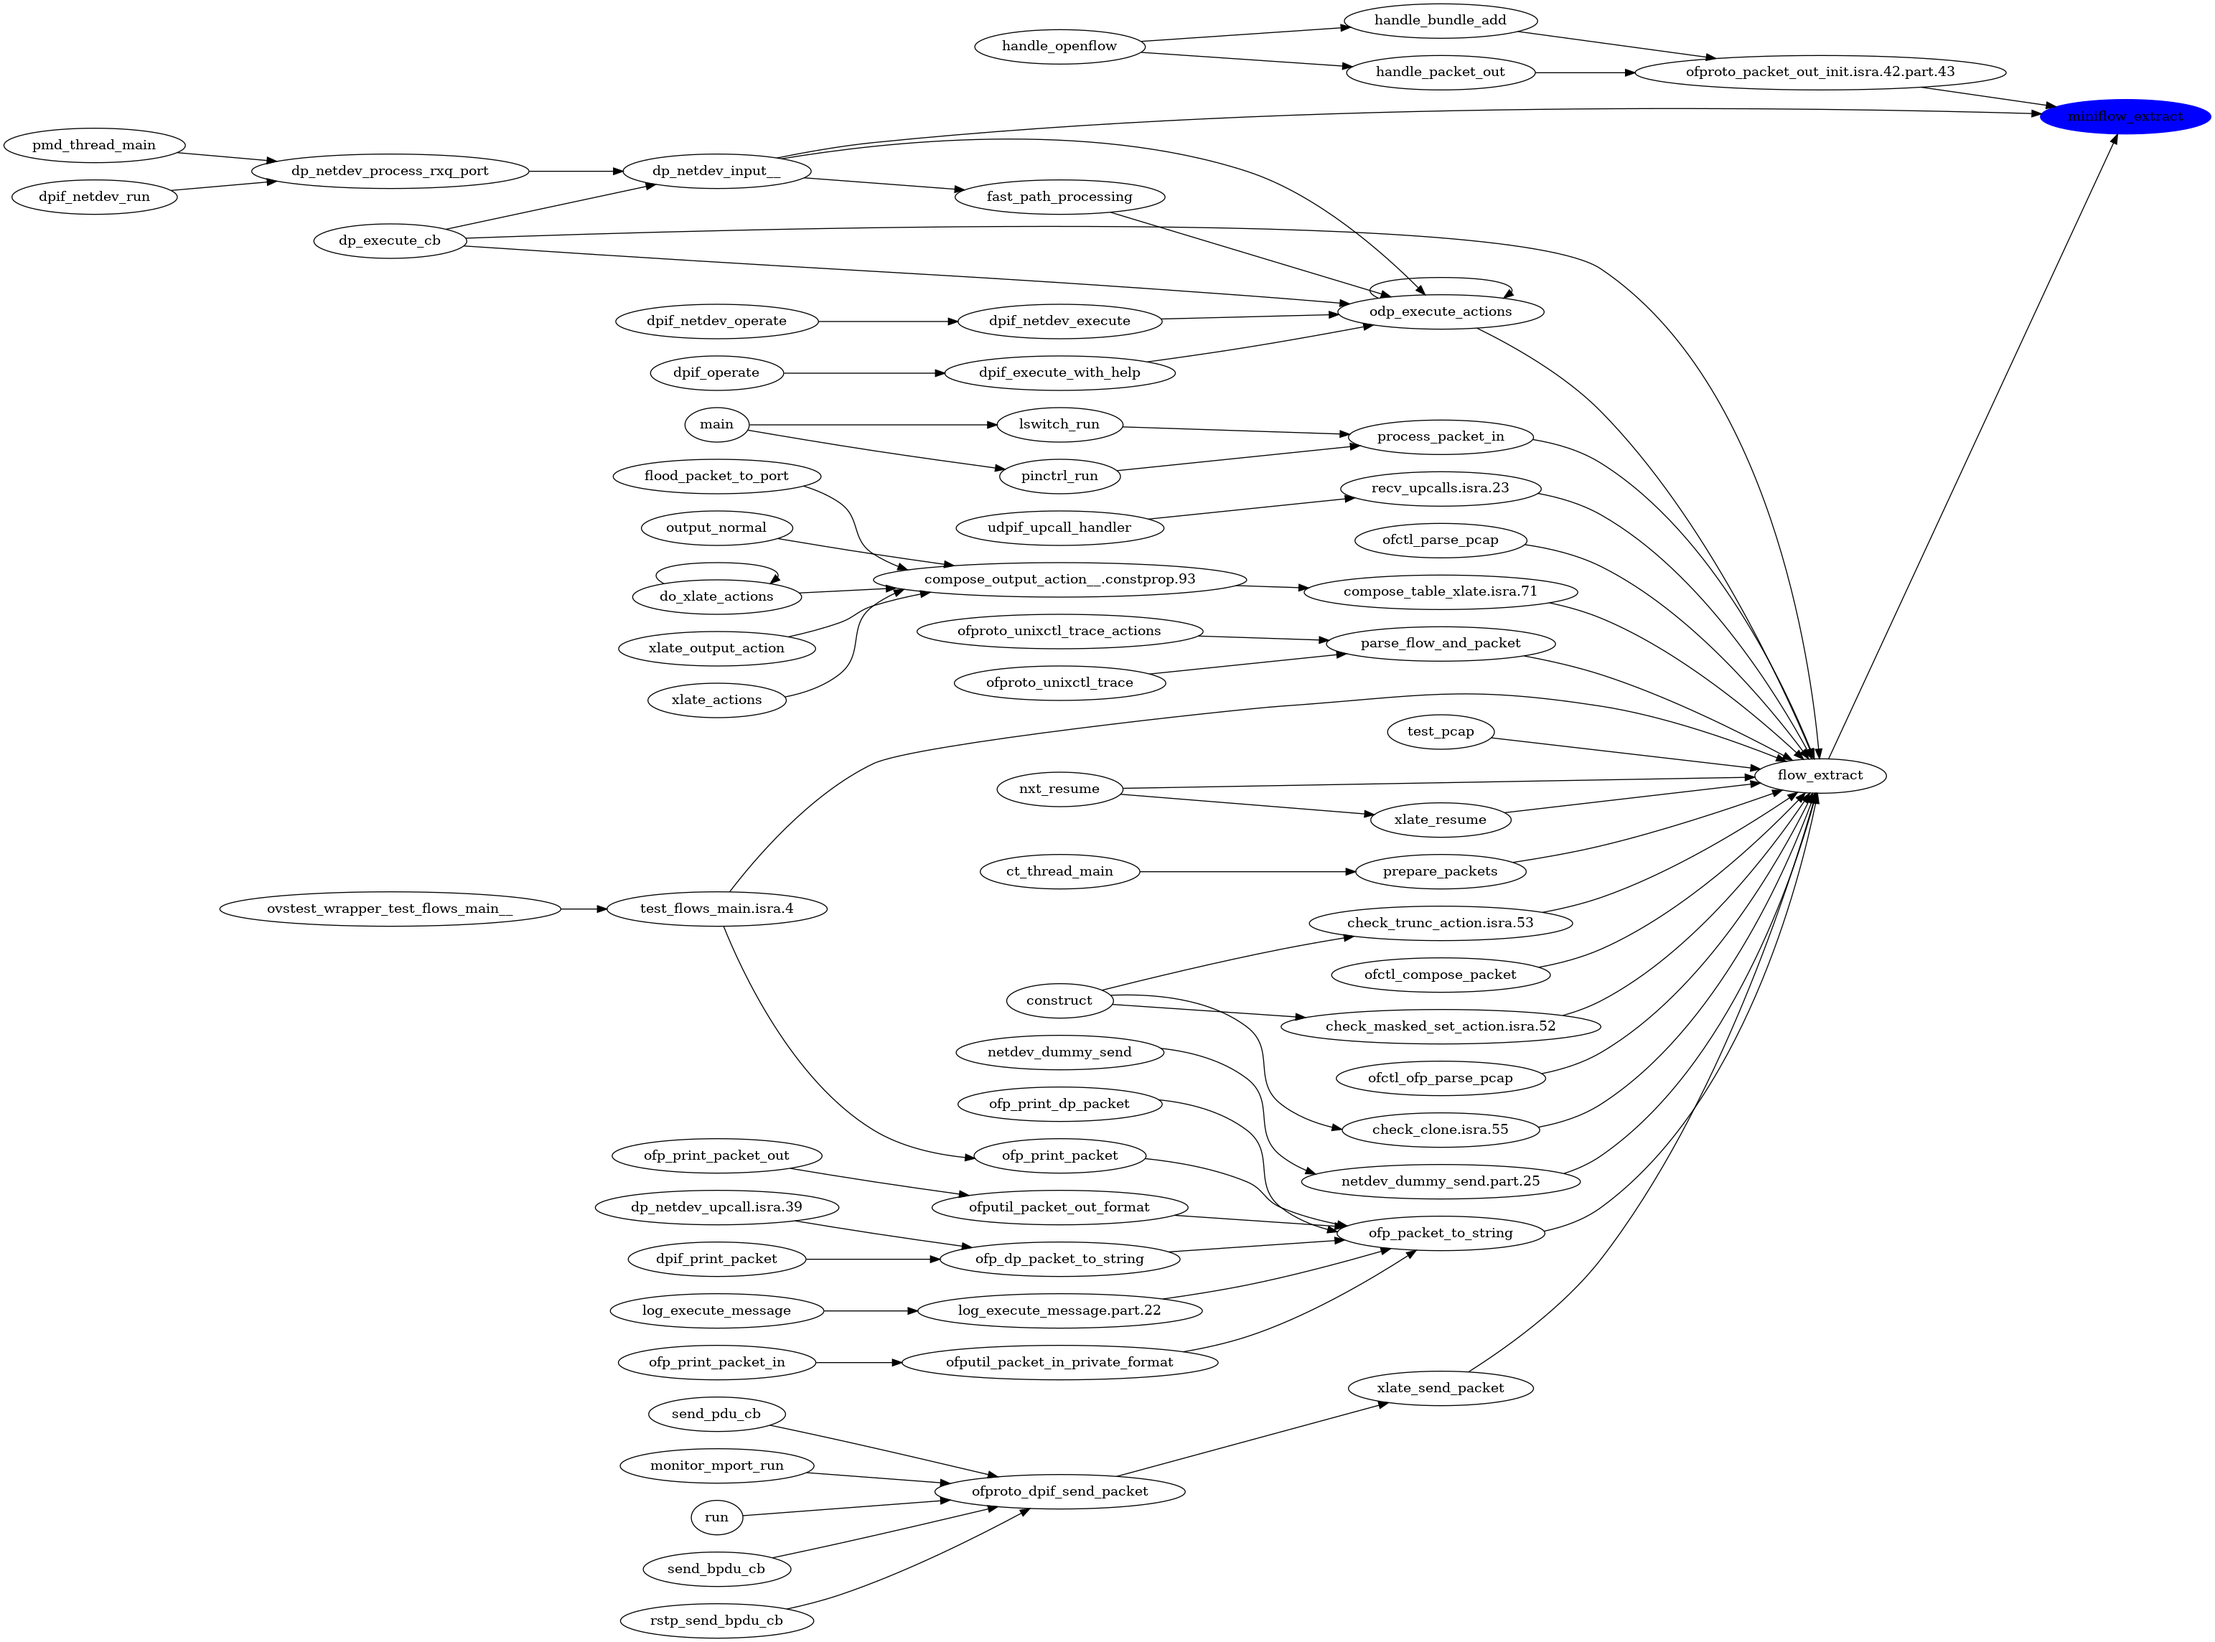
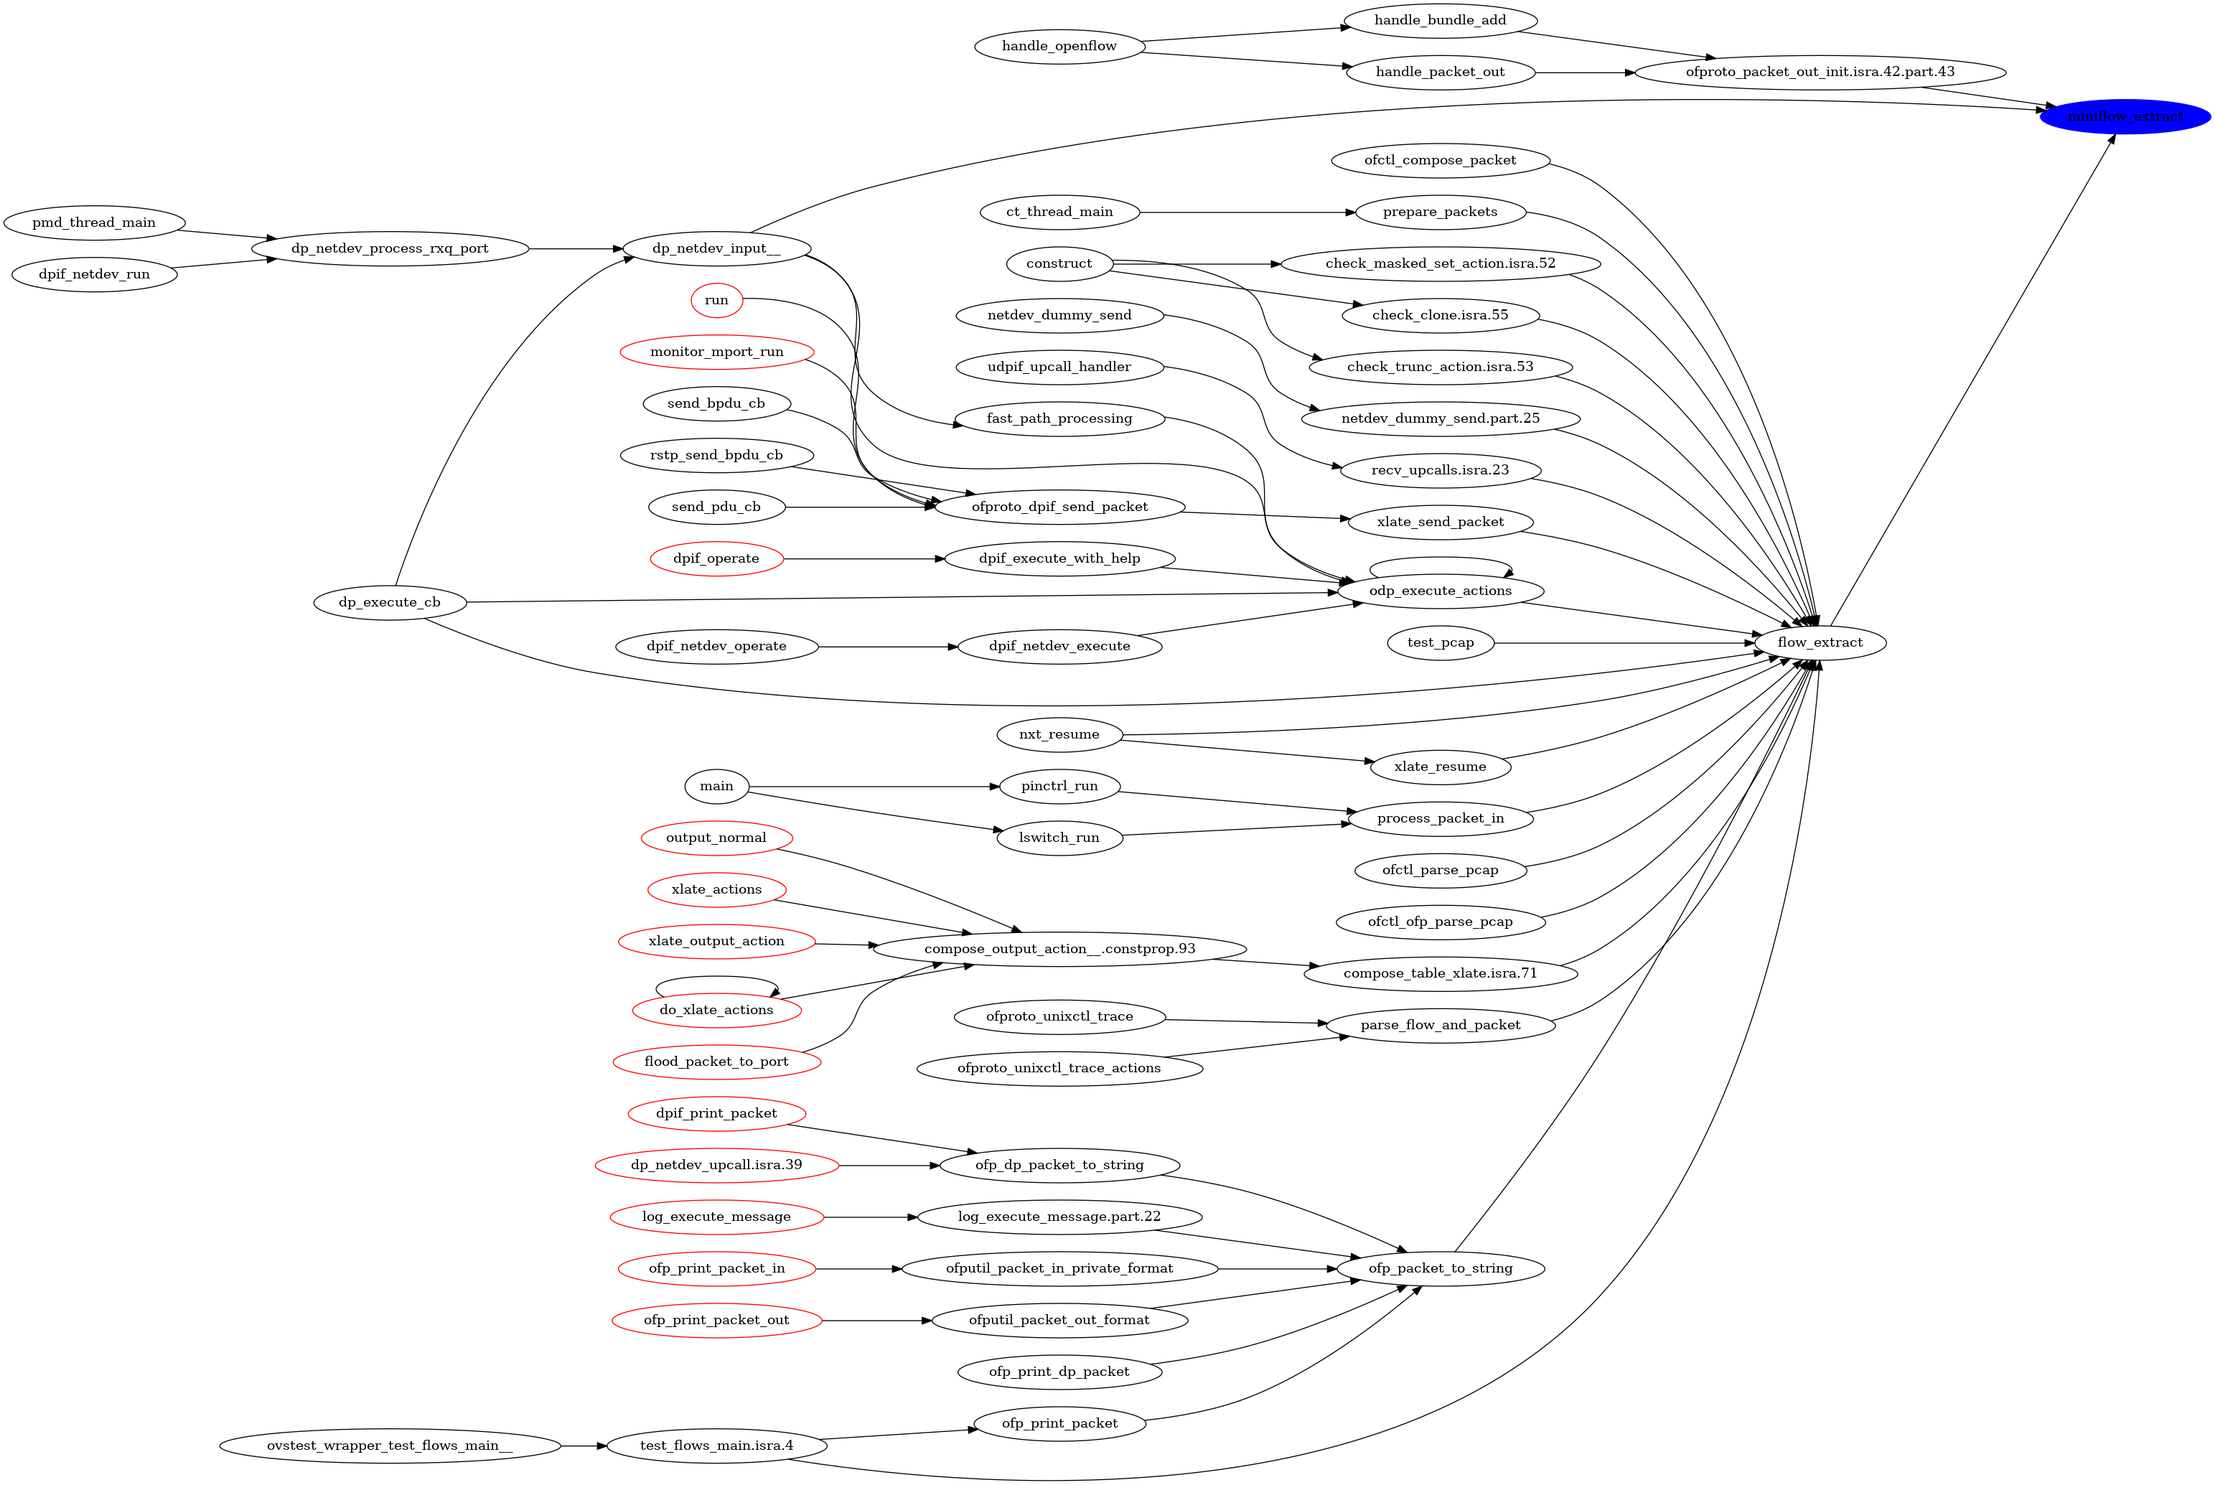
Shows truncated graph nodes in red

diff --git a/cally.py b/cally.py
@@ -60,7 +60,7 @@ unit_test_full_dump_output = [
     'strict digraph callgraph {',
     '"A" -> "A";', '"A" -> "B";',
     '"B" -> "C";', '"B" -> "E";',
-    'E [style=dashed]', '"B" -> "F";',
+    '"E" [style=dashed]', '"B" -> "F";',
     '"B" -> "G";', '"B" -> "H";',
     '"C" -> "D";', '"D"', '"F"',
     '"G" -> "B";', '"H" -> "I";',
@@ -72,7 +72,7 @@ unit_test_full_caller_output = [
     '"A" -> "A";',
     '"A" -> "B" -> "H" -> "I" -> "J" -> "D";',
     '"A" -> "B" -> "C" -> "D";',
-    '"A" -> "B" -> "E";\nE [style=dashed];',
+    '"A" -> "B" -> "E";\n"E" [style=dashed];',
     '"A" -> "B" -> "G" -> "B";',
     '"A" -> "B" -> "F";'
 ]
@@ -80,31 +80,41 @@ unit_test_noexterns_caller_output = [
     '"A" -> "A";',
     '"A" -> "B" -> "H" -> "I" -> "J" -> "D";',
     '"A" -> "B" -> "C" -> "D";',
+    '"B" [color=red];',
     '"A" -> "B" -> "G" -> "B";',
     '"A" -> "B" -> "F";'
 ]
 unit_test_maxdepth2_caller_output = [
-    '"A" -> "A";', '"A" -> "B";', '"A" -> "B";', '"A" -> "B";', '"A" -> "B";'
+    '"A" -> "A";',
+    '"A" -> "B";\n"B" [color=red];',
+    '"A" -> "B";\n"B" [color=red];',
+    '"B" [color=red];',
+    '"A" -> "B";\n"B" [color=red];',
+    '"A" -> "B";\n"B" [color=red];'
 ]
 unit_test_maxdepth3_caller_output = [
-    '"A" -> "A";', '"A" -> "B" -> "H";', '"A" -> "B" -> "C";',
-    '"A" -> "B" -> "E";\nE [style=dashed];', '"A" -> "B" -> "G";',
+    '"A" -> "A";',
+    '"A" -> "B" -> "H";\n"H" [color=red];',
+    '"A" -> "B" -> "C";\n"C" [color=red];',
+    '"A" -> "B" -> "E";\n"E" [style=dashed];',
+    '"A" -> "B" -> "G";\n"G" [color=red];',
     '"A" -> "B" -> "F";'
 ]
 unit_test_regex_caller_output = [
     '"A" -> "A";', '"A" -> "B" -> "H" -> "I" -> "J" -> "D";',
-    '"A" -> "B";', '"A" -> "B";', '"A" -> "B" -> "F";'
-]
-
+    '"A" -> "B";\n"B" [color=red];',
+    '"B" [color=red];',
+    '"A" -> "B";\n"B" [color=red];',
+    '"A" -> "B" -> "F";']
 unit_test_full_callee_output = [
     '"A" -> "A" -> "B";', '"main" -> "A" -> "B";', '"B" -> "G" -> "B";'
 ]
-
 unit_test_maxdepth4_callee_output = [
-    '"A" -> "A" -> "B" -> "C" -> "D";', '"A" -> "B" -> "C" -> "D";',
-    '"G" -> "B" -> "C" -> "D";', '"H" -> "I" -> "J" -> "D";'
+    '"A" -> "A" -> "B" -> "C" -> "D";',
+    '"A" -> "B" -> "C" -> "D";\n"A" [color=red];',
+    '"G" -> "B" -> "C" -> "D";\n"G" [color=red];',
+    '"H" -> "I" -> "J" -> "D";\n"H" [color=red];'
 ]
-
 unit_test_maxdepth5_callee_output = [
     '"A" -> "A" -> "B" -> "C" -> "D";', '"main" -> "A" -> "B" -> "C" -> "D";',
     '"B" -> "G" -> "B" -> "C" -> "D";', '"B" -> "H" -> "I" -> "J" -> "D";'
@@ -185,7 +195,7 @@ def unit_test():
                                       unit_test_noexterns_caller_output,
                                       buffer)
     #
-    # Full caller with limit depth
+    # Caller with limit depth
     #
     print_dbg("")
     print_dbg("CALLER LIMITED DEPTH (2)")
@@ -197,13 +207,10 @@ def unit_test():
               exclude=None,
               no_externs=False,
               stdio_buffer=buffer)
-    failures += unit_test_check_error("CALLER, MAC DEPTH 2",
+    failures += unit_test_check_error("CALLER, MAX DEPTH 2",
                                       unit_test_maxdepth2_caller_output,
                                       buffer)
-    #
-    #
-    # Limited depth caller
-    #
+
     print_dbg("")
     print_dbg("CALLER LIMITED DEPTH (3)")
     print_dbg("========================")
@@ -217,6 +224,9 @@ def unit_test():
     failures += unit_test_check_error("CALLER, MAX DEPTH 3",
                                       unit_test_maxdepth3_caller_output,
                                       buffer)
+    #
+    # Caller with limited by regex
+    #
     print_dbg("")
     print_dbg("CALLER REGEX MATCH")
     print_dbg("==================")
@@ -347,6 +357,7 @@ def build_callee_info(function_db):
 #
 def dump_path_ascii(path, reverse, **kwargs):
     externs = kwargs.get("externs", False)
+    truncated = kwargs.get("truncated", False)
     std_buf = kwargs.get("stdio_buffer", None)
 
     if len(path) == 0:
@@ -358,8 +369,11 @@ def dump_path_ascii(path, reverse, **kwargs):
             ascii_path += " -> "
         ascii_path += '"' + function + '"'
 
-    if externs:
-        ascii_path += ';\n"{}" [style=dashed]'.format(function)
+    if truncated or externs:
+        ascii_path += ';\n"{}"{}{}'. \
+                      format(function if not reverse else path[-1],
+                             " [style=dashed]" if externs else "",
+                             " [color=red]" if truncated else "")
 
     print_buf(std_buf, ascii_path + ";")
 
@@ -392,7 +406,8 @@ def dump_path(path, functions, function_name, **kwargs):
     #
     if (exclude is not None and re.match(exclude, function_name) is not None) \
        or (max_depth > 0 and len(path) >= max_depth):
-        dump_path_ascii(path, reverse_path, stdio_buffer=std_buf)
+        dump_path_ascii(path, reverse_path, stdio_buffer=std_buf,
+                        truncated=True)
         return
 
     #
@@ -437,6 +452,10 @@ def dump_path(path, functions, function_name, **kwargs):
             children += 1
             dump_path_ascii(path + [function_name, caller], reverse_path,
                             externs=True, stdio_buffer=std_buf)
+        else:
+            print_buf(std_buf, '"{}" [color=red];'.
+                      format(function_name))
+
     #
     # If there where no children, the path ends here, so dump it.
     #
@@ -513,7 +532,8 @@ def full_call_graph(functions, **kwargs):
                     print_buf(std_buf, '"{}" -> "{}";'.format(func, caller))
 
                     if caller not in functions:
-                        print_buf(std_buf, '"{}" [style=dashed]'.format(caller))
+                        print_buf(std_buf, '"{}" [style=dashed]'.
+                                  format(caller))
 
                     printed_functions += 1
 

diff --git a/README.md b/README.md
@@ -130,7 +130,7 @@ Without ```-fno-inline-functions -O0``` there are no _static_ functions:
   <img src="images/full_call_graph.png" width="100%" alt="full_call_graph.png">
 </div>
 
-__NOTE:__ The dashed nodes in the graph are external functions, i.e. not
+__NOTE__: The dashed nodes in the graph are external functions, i.e. not
 defined in any of the RTL files given. If you would like to exclude them from
 the graph you can use the ```--no-externs``` option.
 
@@ -168,6 +168,9 @@ $ find . -name *.expand | xargs cally.py --caller miniflow_extract --max-depth 6
 <div align="center">
   <img src="images/limited_caller.png" width="100%" alt="limited_caller.png">
 </div>
+
+__NOTE__: The red nodes in the graph represents nodes which had calls removed
+due to either the _--max-depth_, _--exclude_ or _--no-externs_ options.
 
 
 
